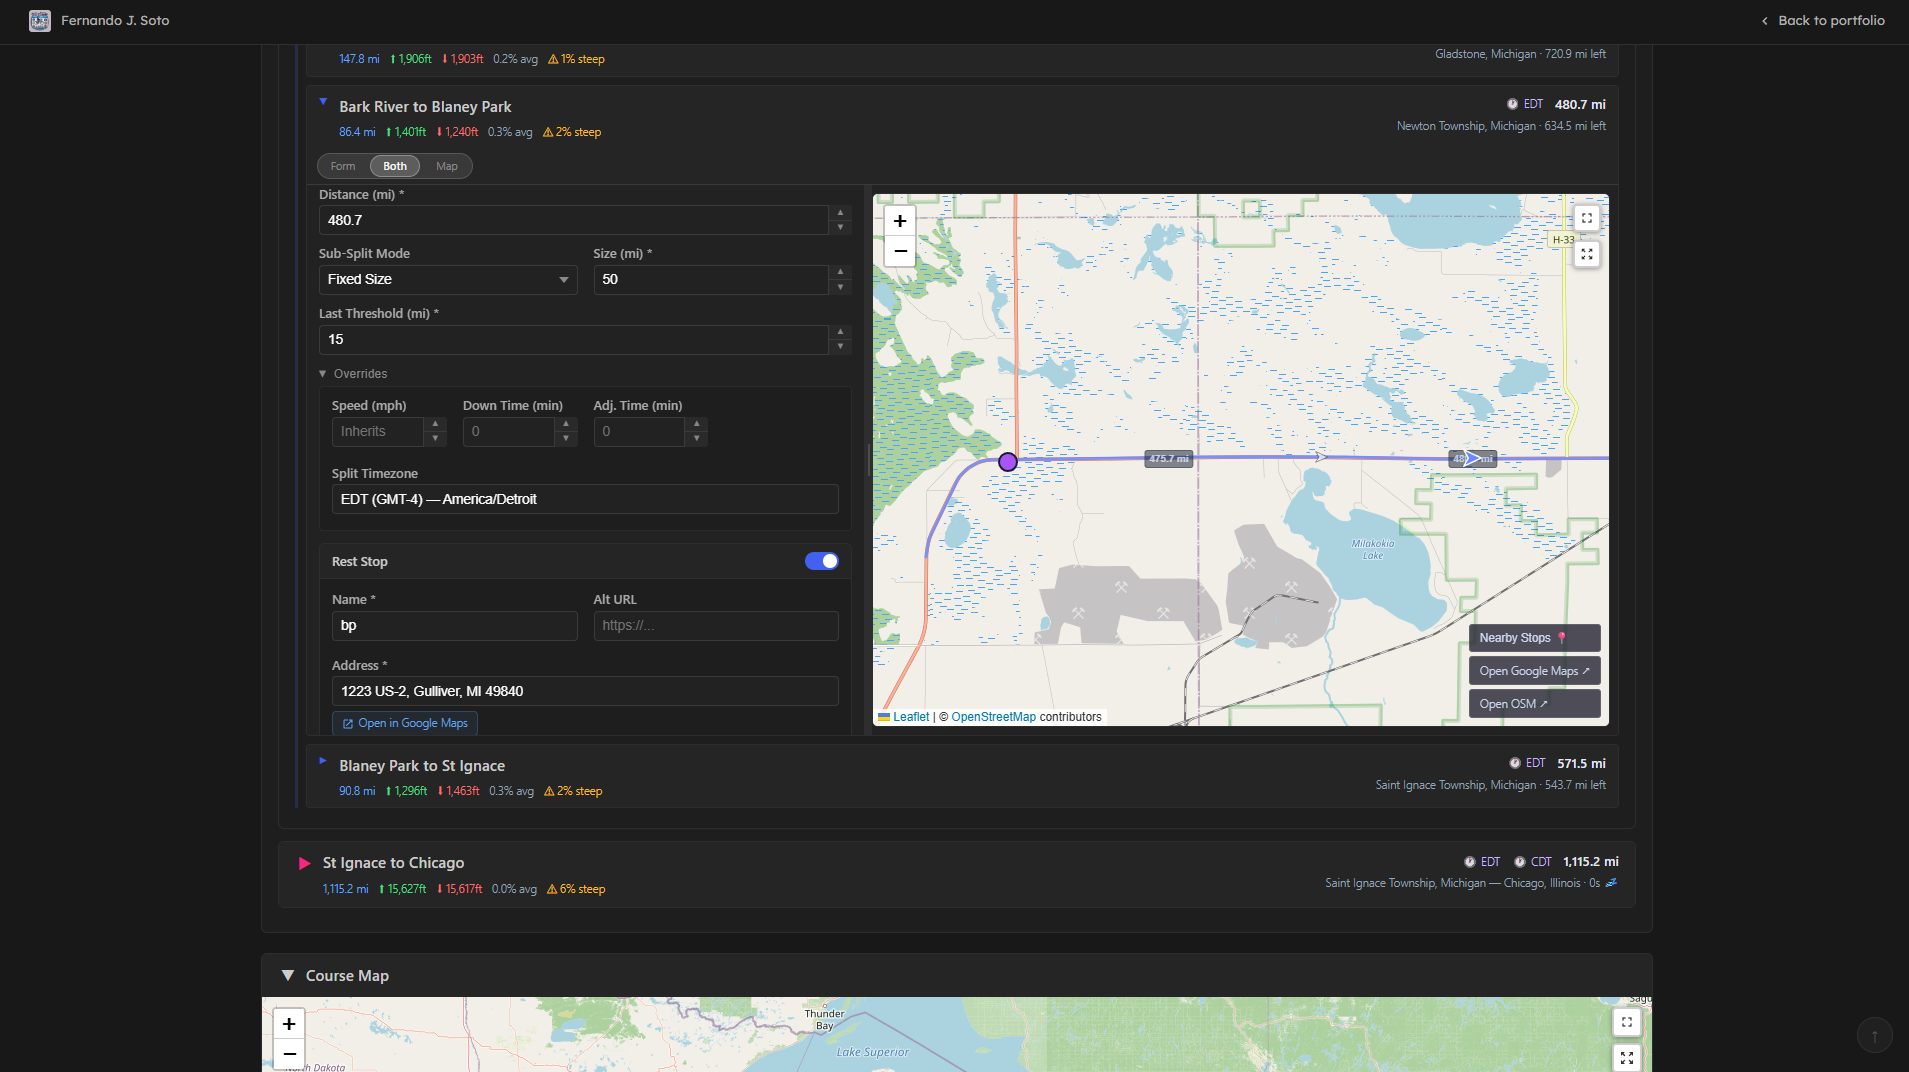
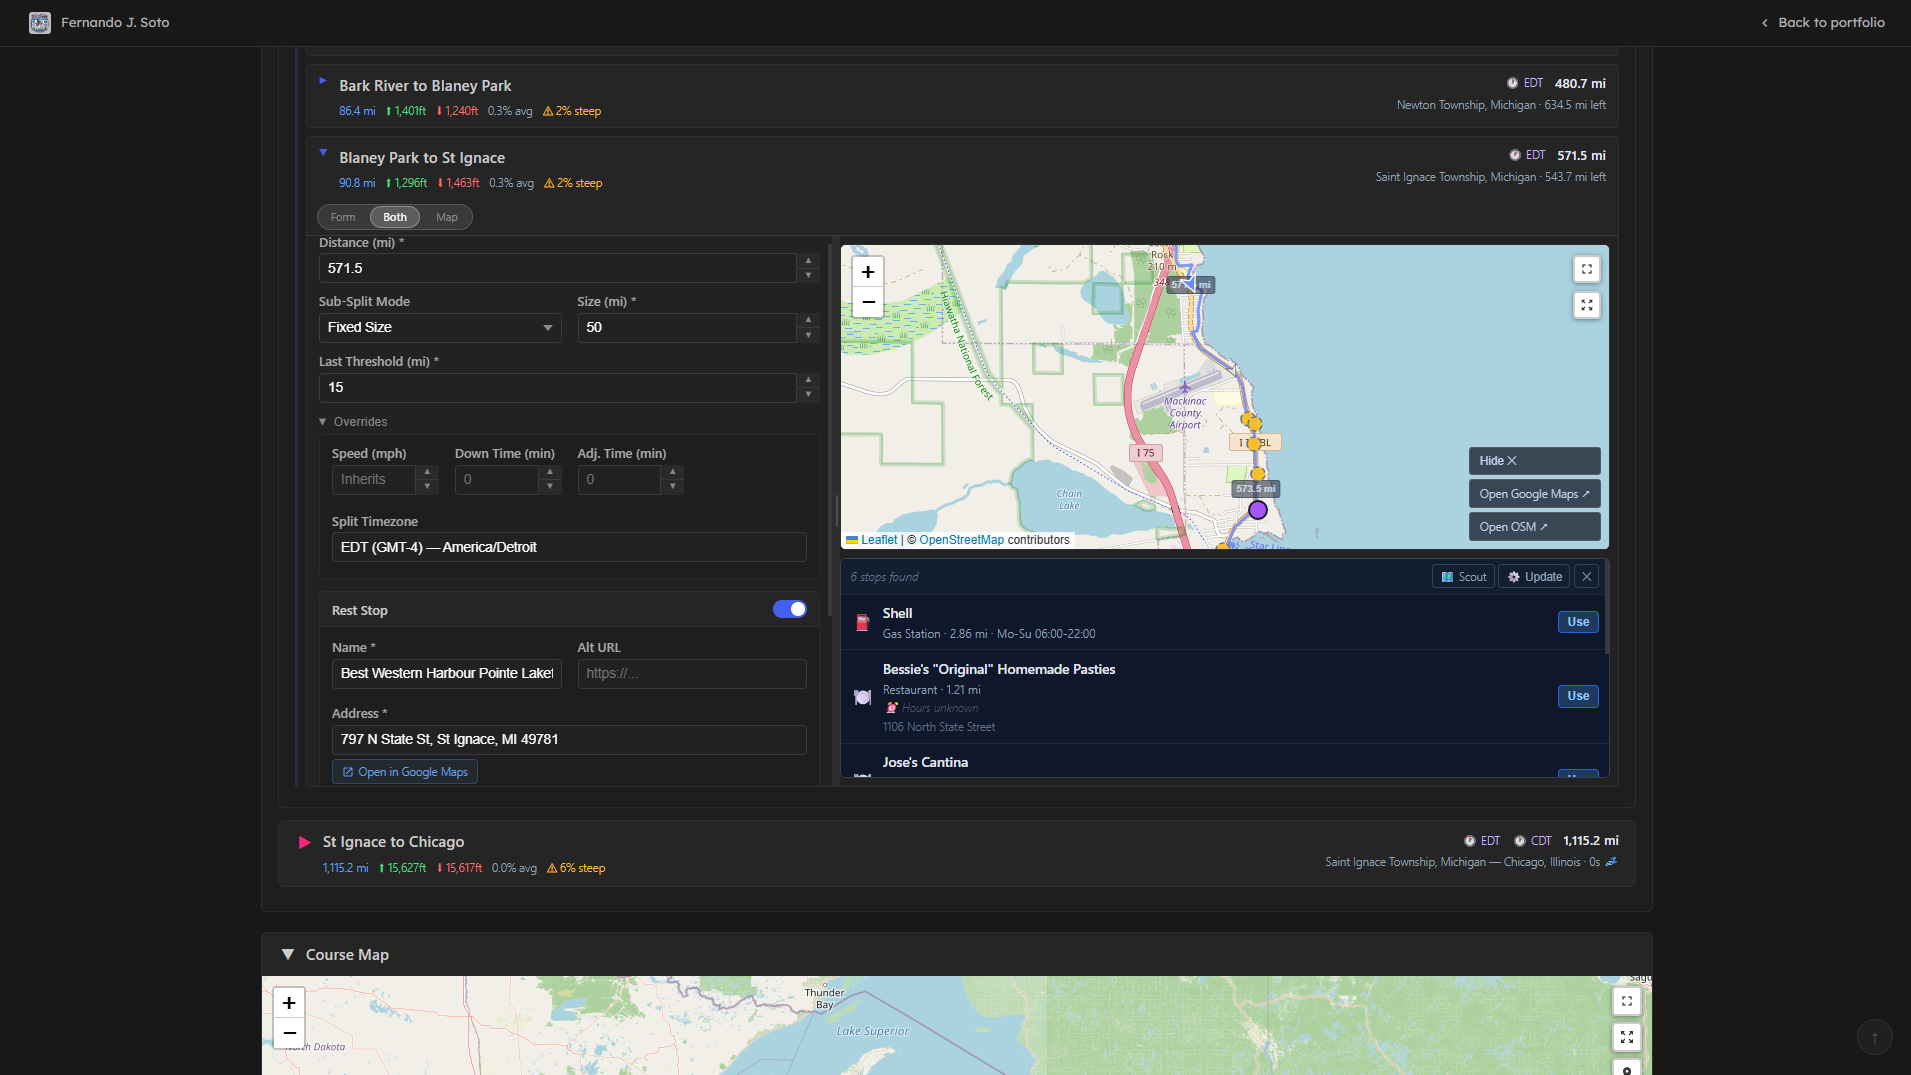
update img and desc

diff --git a/index.html b/index.html
@@ -903,7 +903,7 @@
                                         alt="Course settings panel">
                                 </a>
                                 <a data-fancybox="cycling" href="images/projects/cycling_pacing_calculator/segment_split_options.png"
-                                    data-caption="Segment and split options&mdash;define pacing, decay rates, and sub-split strategies.">
+                                    data-caption="Segment and split options&mdash;define pacing, decay rates, and sub-split strategies. Split view endpoint and find nearby rest stops.">
                                     <img loading="lazy" class="pj-thumb" src="images/projects/cycling_pacing_calculator/segment_split_options.png"
                                         alt="Segment and split options">
                                 </a>
